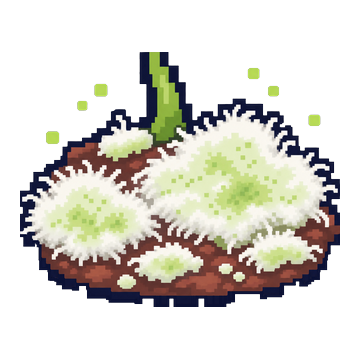
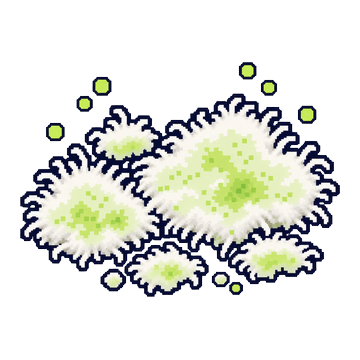
곰팡이 그림 교체: 흙 없이 곰팡이 덩어리만 (진드기·먼지처럼) v207
Claude-Session: https://claude.ai/code/session_013gDdTYpfD9BZ2ma2UiLbLm

Changed region(s): [[0.0306, 0.1222, 0.9472, 0.8556], [0.2139, 0.2139, 0.3361, 0.3361]]

diff --git a/index.html b/index.html
@@ -17,13 +17,13 @@ if (/github\.io$/i.test(location.hostname)) location.replace('https://sense2026-
 <link rel="preconnect" href="https://fonts.googleapis.com">
 <link rel="preconnect" href="https://fonts.gstatic.com" crossorigin>
 <link rel="stylesheet" href="https://fonts.googleapis.com/css2?family=Jua&family=Gowun+Dodum&display=swap">
-<link rel="stylesheet" href="./css/style.css?v=v206-moldart">
-<link rel="stylesheet" href="./css/lab.css?v=v206-moldart">
-<link rel="stylesheet" href="./css/theme.css?v=v206-moldart">
-<link rel="stylesheet" href="./css/teacher.css?v=v206-moldart">
+<link rel="stylesheet" href="./css/style.css?v=v207-mold2">
+<link rel="stylesheet" href="./css/lab.css?v=v207-mold2">
+<link rel="stylesheet" href="./css/theme.css?v=v207-mold2">
+<link rel="stylesheet" href="./css/teacher.css?v=v207-mold2">
 <script>
 /* 11/12: 이 기기에 예전 화면 파일이 저장돼 있으면(버전이 다르면) 저장본을 지우고 한 번만 새로 열어요 */
-window.APP_V = 'v206-moldart';
+window.APP_V = 'v207-mold2';
 window.addEventListener('load', function () {
   if (window.JS_V === window.APP_V) return;
   try { if (sessionStorage.getItem('appVfix') === window.APP_V) return; sessionStorage.setItem('appVfix', window.APP_V); } catch (e) { return; }
@@ -42,16 +42,16 @@ window.addEventListener('load', function () {
 
   <noscript>이 교육도구는 자바스크립트가 필요해요. 브라우저 설정을 확인해 주세요.</noscript>
 
-  <script src="./data/rules.js?v=v206-moldart"></script>
-  <script src="./data/holidays.js?v=v206-moldart"></script>
-  <script src="./data/lab-items.js?v=v206-moldart"></script>
-  <script src="./js/qr.js?v=v206-moldart"></script>
-  <script src="./js/sfx.js?v=v206-moldart"></script>
-  <script src="./js/core.js?v=v206-moldart"></script>
-  <script src="./js/card.js?v=v206-moldart"></script>
-  <script src="./js/anim.js?v=v206-moldart"></script>
-  <script src="./js/lab.js?v=v206-moldart"></script>
-  <script src="./js/diary.js?v=v206-moldart"></script>
-  <script src="./js/app.js?v=v206-moldart"></script>
+  <script src="./data/rules.js?v=v207-mold2"></script>
+  <script src="./data/holidays.js?v=v207-mold2"></script>
+  <script src="./data/lab-items.js?v=v207-mold2"></script>
+  <script src="./js/qr.js?v=v207-mold2"></script>
+  <script src="./js/sfx.js?v=v207-mold2"></script>
+  <script src="./js/core.js?v=v207-mold2"></script>
+  <script src="./js/card.js?v=v207-mold2"></script>
+  <script src="./js/anim.js?v=v207-mold2"></script>
+  <script src="./js/lab.js?v=v207-mold2"></script>
+  <script src="./js/diary.js?v=v207-mold2"></script>
+  <script src="./js/app.js?v=v207-mold2"></script>
 </body>
 </html>

diff --git a/sw.js b/sw.js
@@ -2,7 +2,7 @@
    ※ 파일을 고쳐서 다시 올릴 때는 아래 VERSION 숫자를 하나 올려 주세요. (예: v1 → v2)
    ※ 11/12부터: 같은 버전 글자를 index.html(APP_V와 ?v=)과 js/core.js(JS_V)에도 똑같이 바꿔요.
    ※ 학생 기록은 여기 저장되지 않아요 (기록은 각 기기의 LocalStorage에만). */
-const VERSION = 'v206-moldart';
+const VERSION = 'v207-mold2';
 const CACHE = 'allergy-shield-' + VERSION;
 const FILES = [
   './',

diff --git a/js/core.js b/js/core.js
@@ -1,5 +1,5 @@
 /* 화면 파일 버전 — index.html의 APP_V, sw.js의 VERSION과 늘 같게 (11/12: 예전 저장본 화면 막기) */
-window.JS_V = 'v206-moldart';
+window.JS_V = 'v207-mold2';
 /* =========================================================
    core.js — 저장, 날짜, 챌린지 계산, 화면 이동, 팝업, 공통 도구
    ========================================================= */
